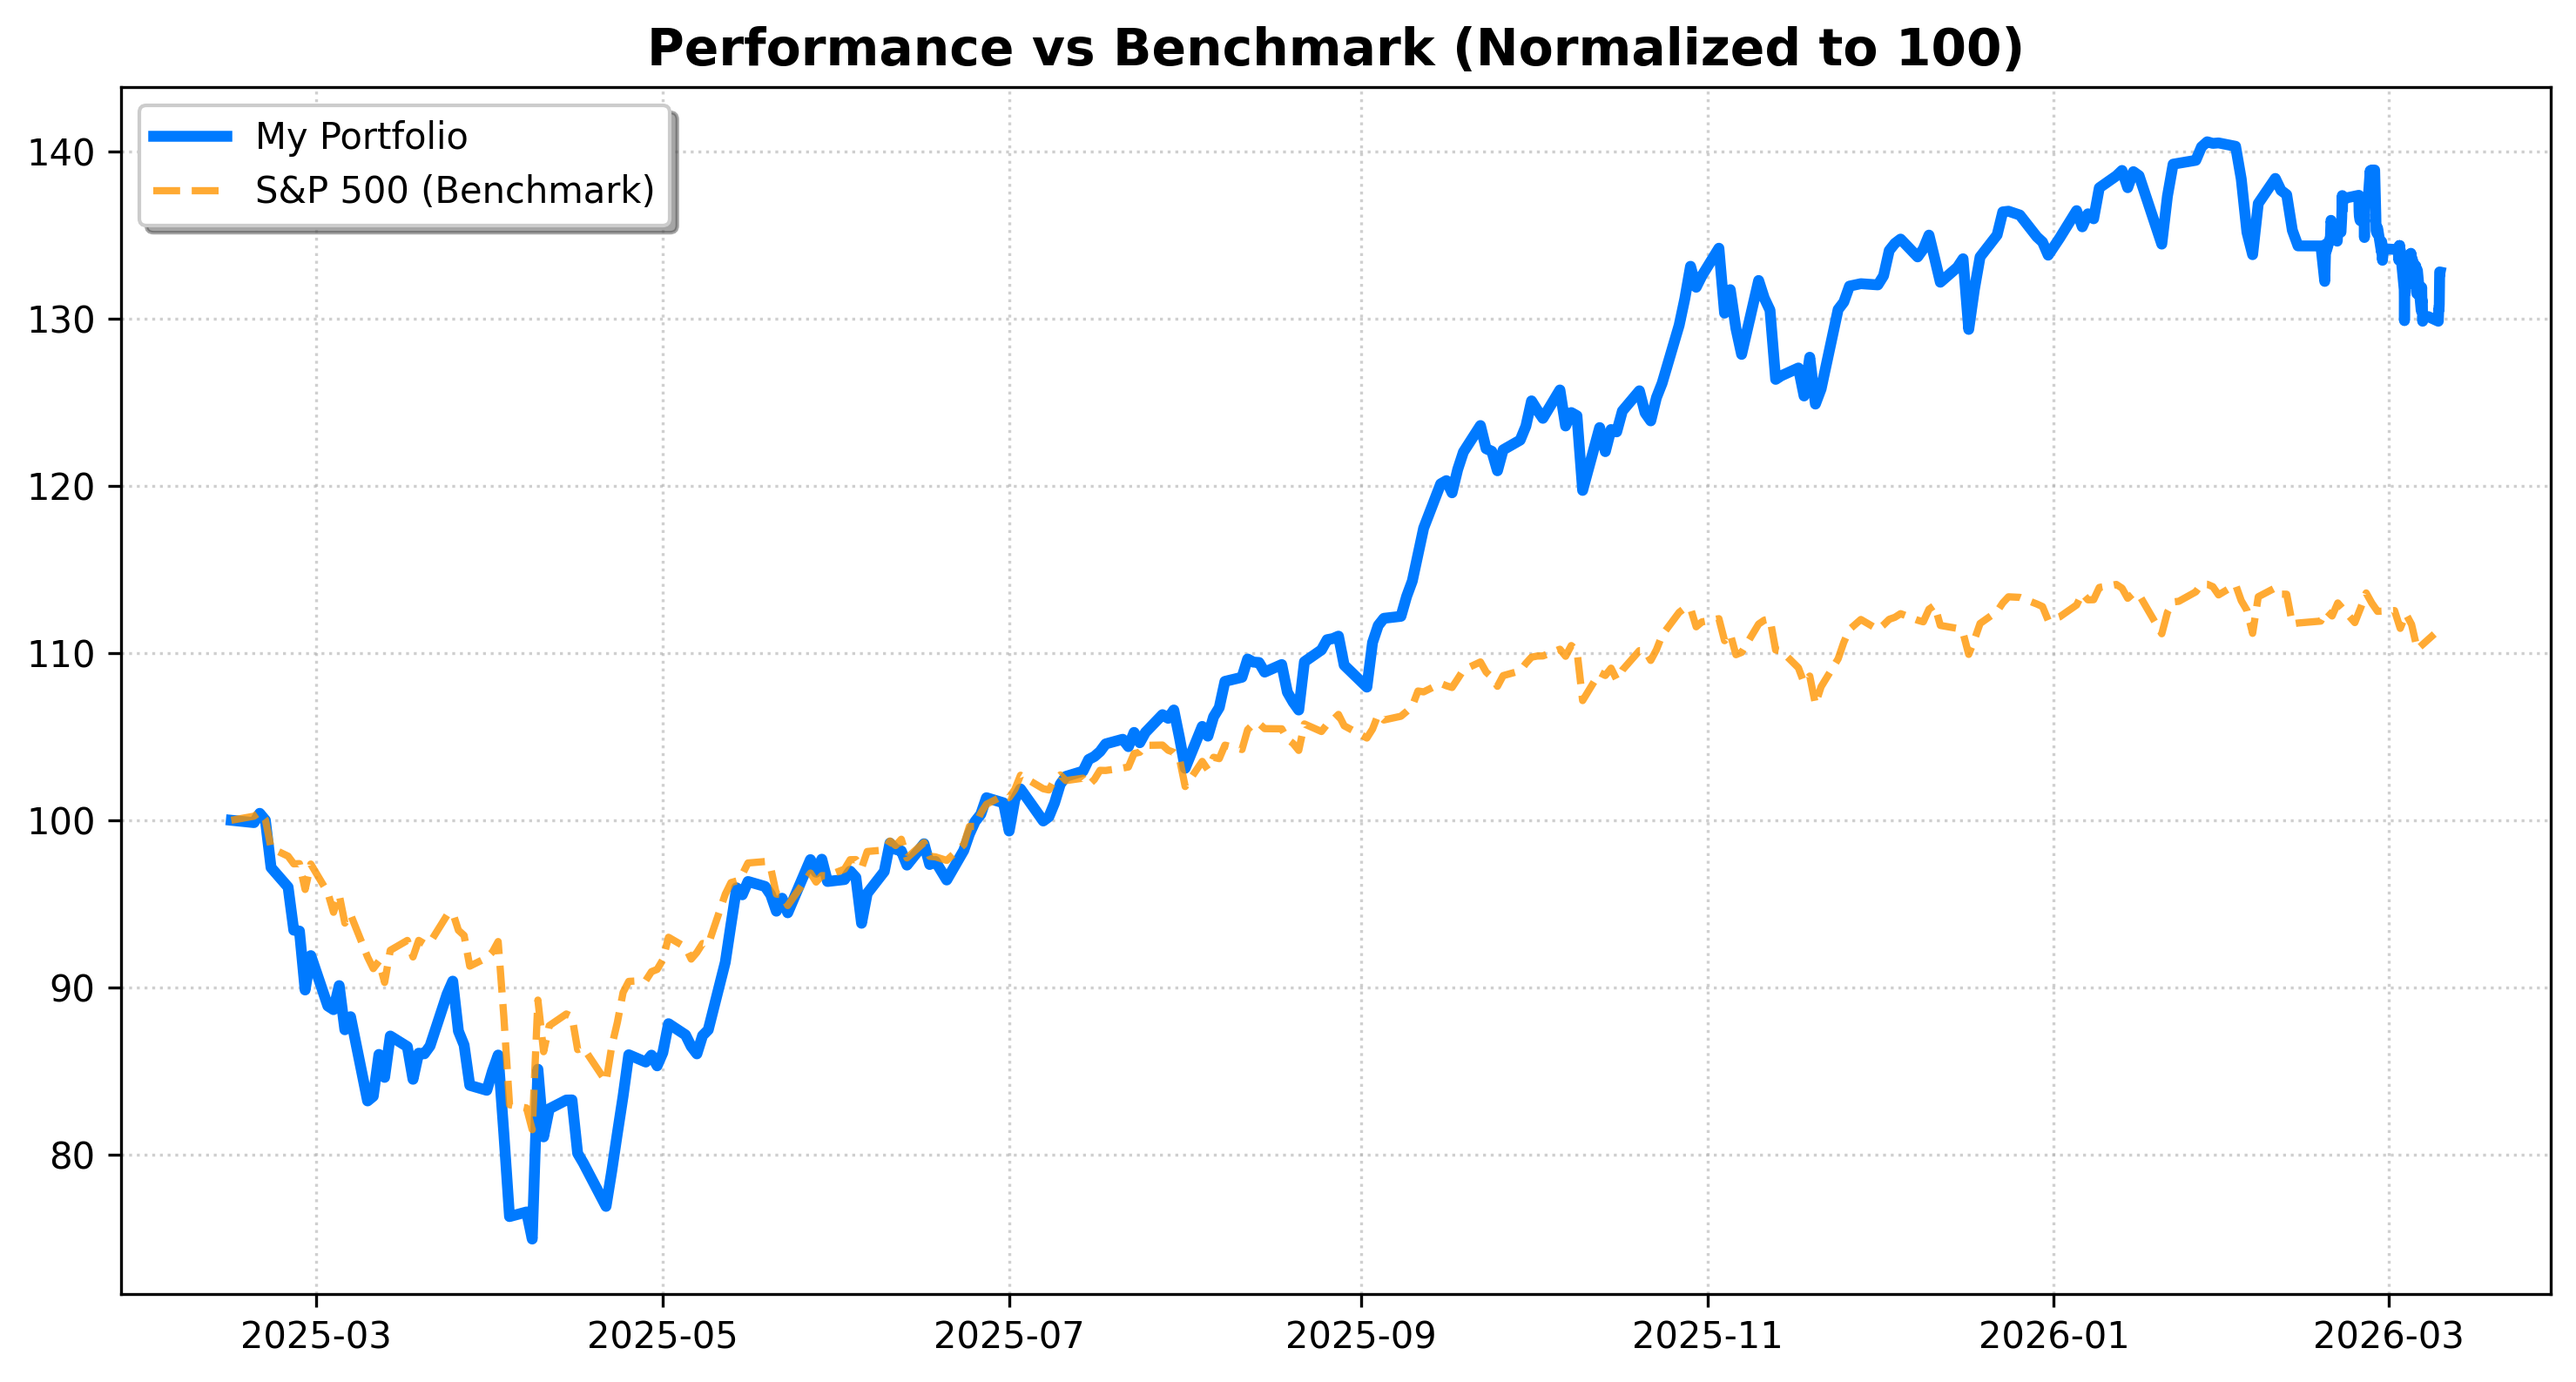
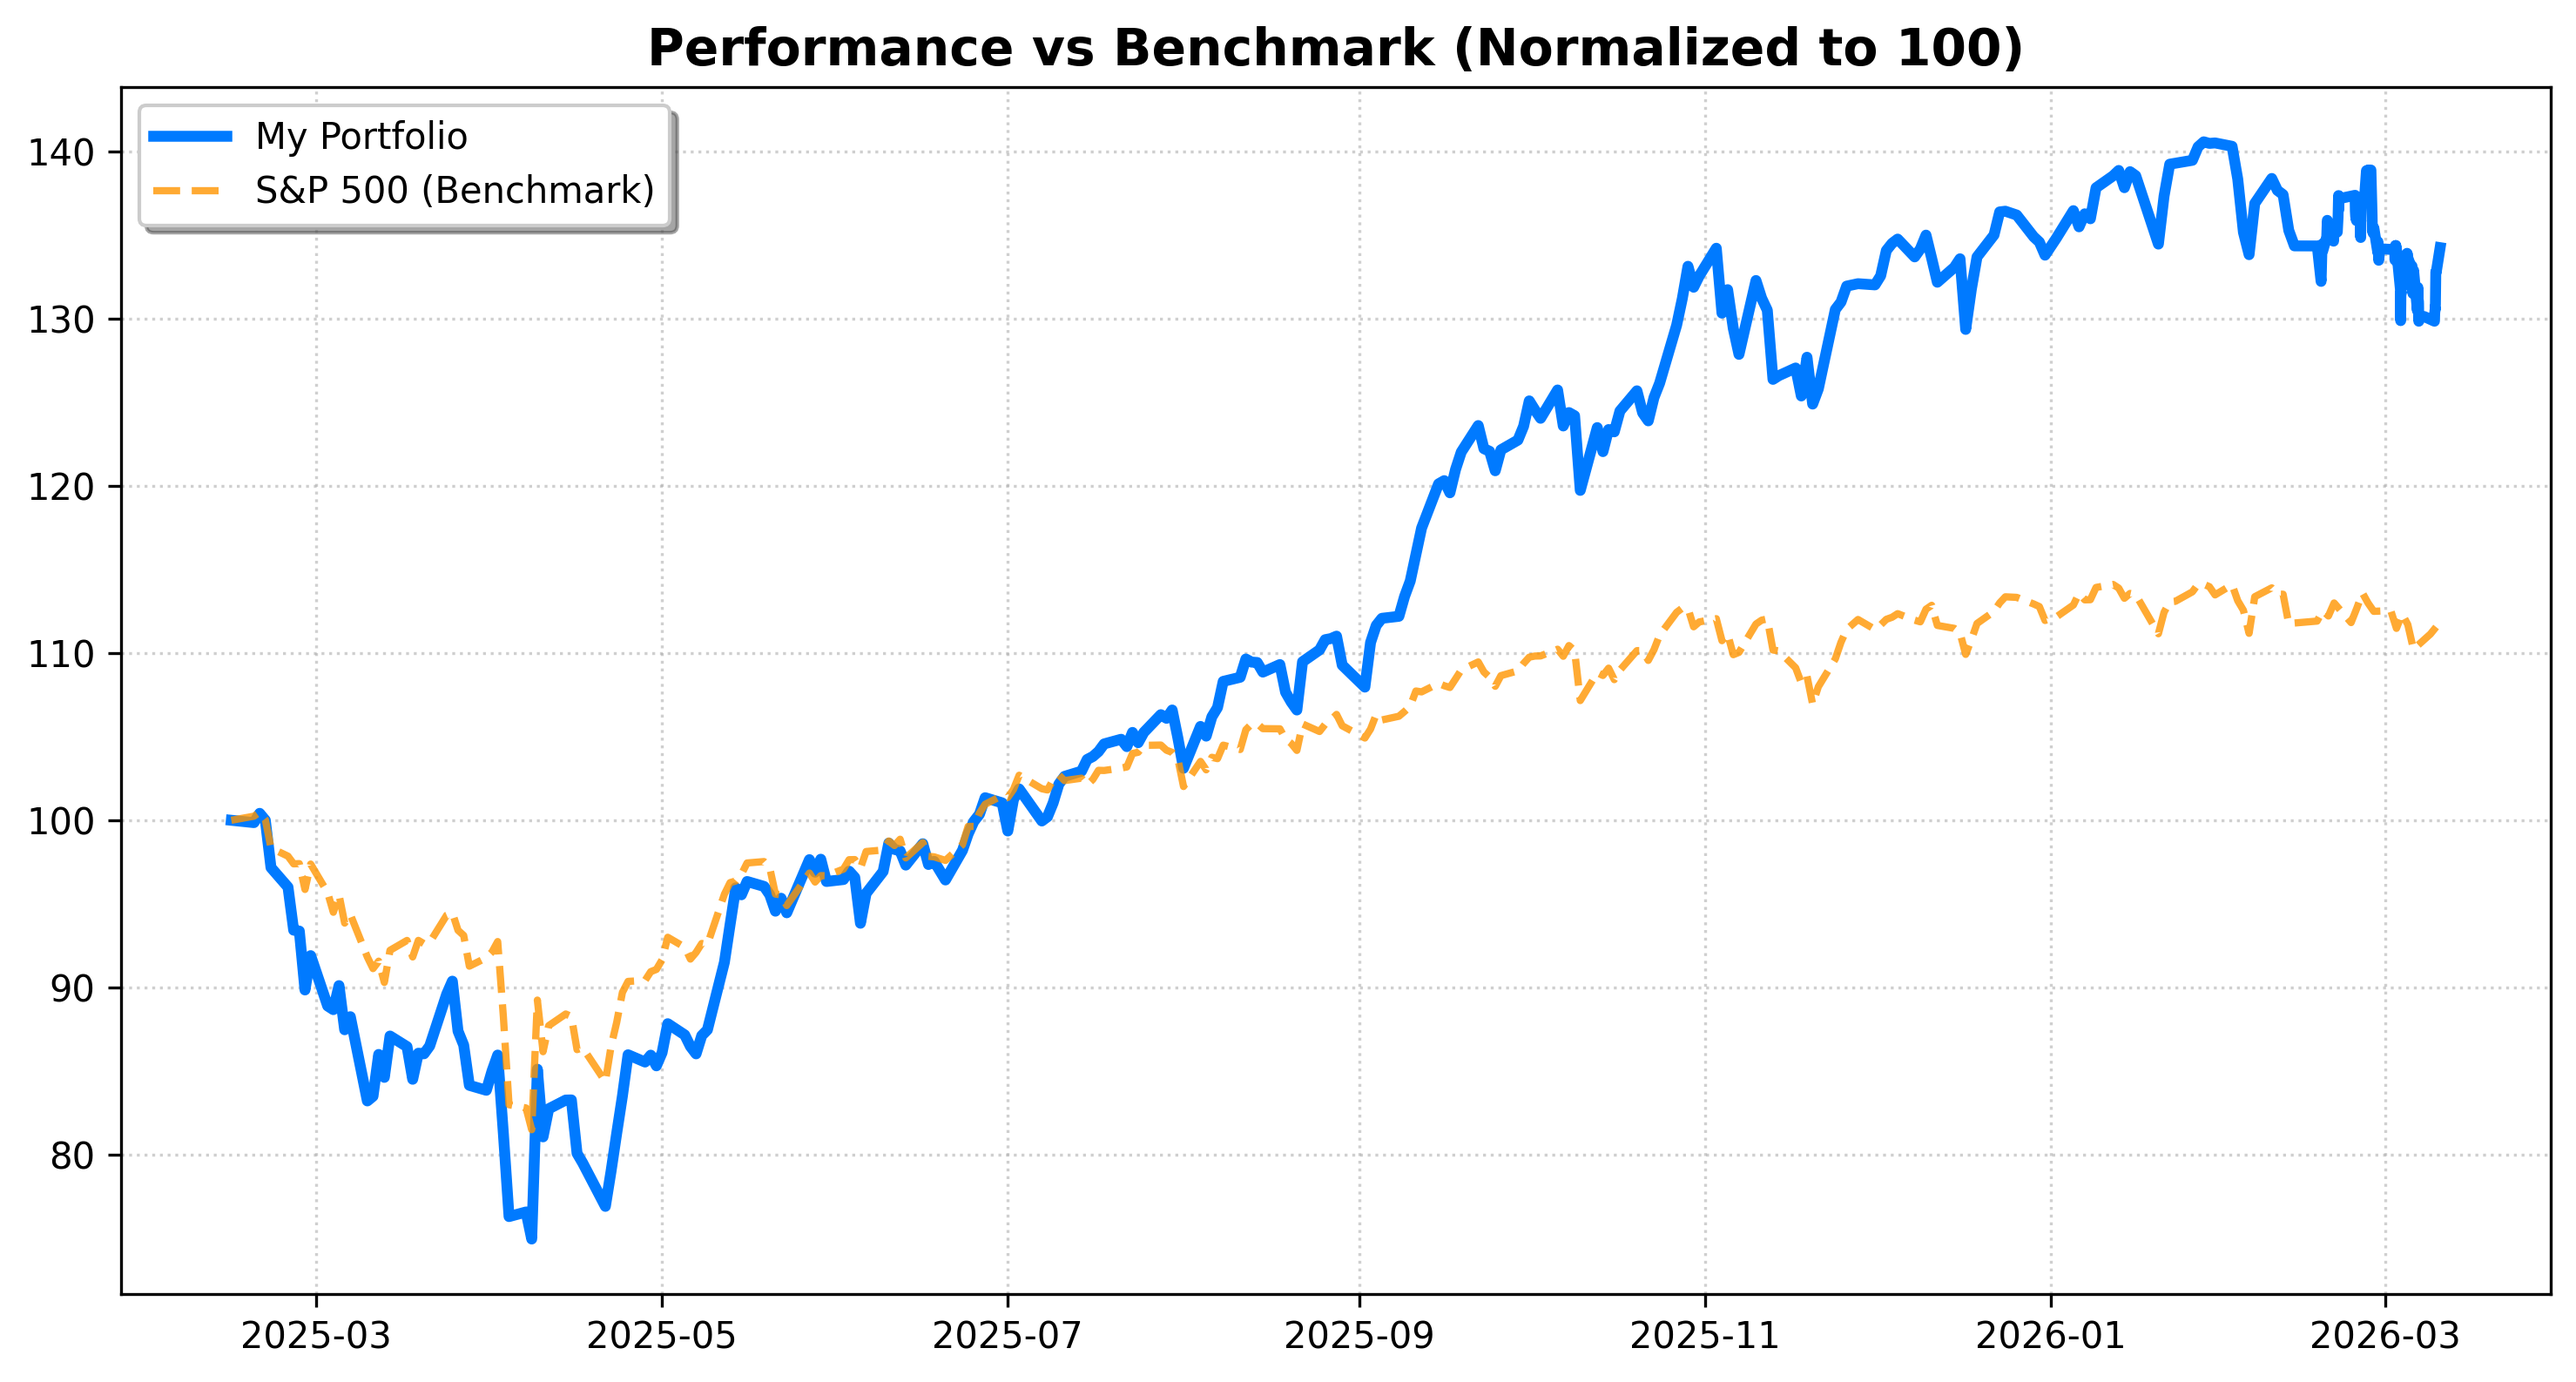
System Run: Analytics & Archive Update [skip ci]

diff --git a/README.md b/README.md
@@ -1,23 +1,23 @@
 # 📊 Portfolio Dashboard | מעקב תיק השקעות
-**Last Update:** 10/03/2026 00:35 | **USD/ILS:** ₪3.091
+**Last Update:** 10/03/2026 16:56 | **USD/ILS:** ₪3.079
 
 ## 💰 Portfolio Summary | סיכום התיק
 | Metric | Value | נתון |
 | :--- | :--- | :--- |
-| **Current Value** | `₪163,409` | **שווי נוכחי** |
-| **Total Invested** | `₪129,803` | **סך השקעה** |
-| **Total Profit/Loss** | `+25.89%` (₪33,605) | **רווח/הפסד כולל** |
-| **Daily Change** | `+2.05%` | **שינוי יומי** |
+| **Current Value** | `₪164,576` | **שווי נוכחי** |
+| **Total Invested** | `₪129,311` | **סך השקעה** |
+| **Total Profit/Loss** | `+27.27%` (₪35,266) | **רווח/הפסד כולל** |
+| **Daily Change** | `+3.17%` | **שינוי יומי** |
 
 ## 📜 Holdings | פירוט החזקות
 | Ticker | Shares | Avg. Cost | Current Price | P&L % | P&L ILS |
 | :--- | :--- | :--- | :--- | :--- | :--- |
-| GOOGL | 45 | $181.15 | $306.37 | 🟢 +69.13% | ₪17,415 |
-| ASML | 4 | $934.51 | $1,357.52 | 🟢 +45.27% | ₪5,229 |
-| XOM | 2 | $126.08 | $150.43 | 🟢 +19.31% | ₪151 |
-| NVDA | 57 | $148.62 | $182.64 | 🟢 +22.89% | ₪5,993 |
-| TSLA | 20 | $436.45 | $398.64 | 🔴 -8.66% | ₪-2,337 |
-| VOO | 24 | $527.38 | $623.83 | 🟢 +18.29% | ₪7,154 |
+| GOOGL | 45 | $181.15 | $308.64 | 🟢 +70.38% | ₪17,664 |
+| ASML | 4 | $934.51 | $1,394.63 | 🟢 +49.24% | ₪5,667 |
+| XOM | 2 | $126.08 | $150.15 | 🟢 +19.09% | ₪148 |
+| NVDA | 57 | $148.62 | $185.57 | 🟢 +24.86% | ₪6,485 |
+| TSLA | 20 | $436.45 | $403.87 | 🔴 -7.46% | ₪-2,006 |
+| VOO | 24 | $527.38 | $626.29 | 🟢 +18.75% | ₪7,309 |
 
 ## 📈 Charts | גרפים
 ![Performance](./data_hub/portfolio_performance.png)
